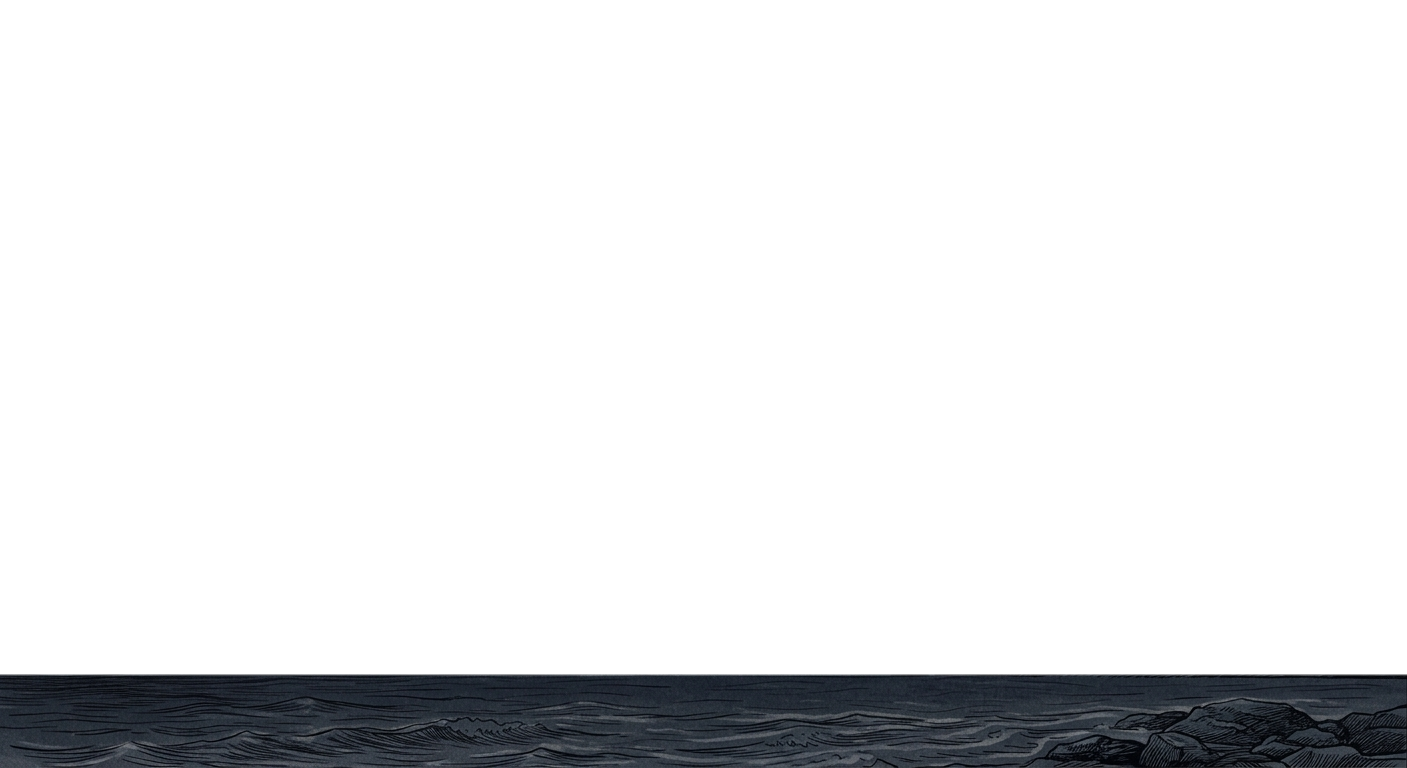
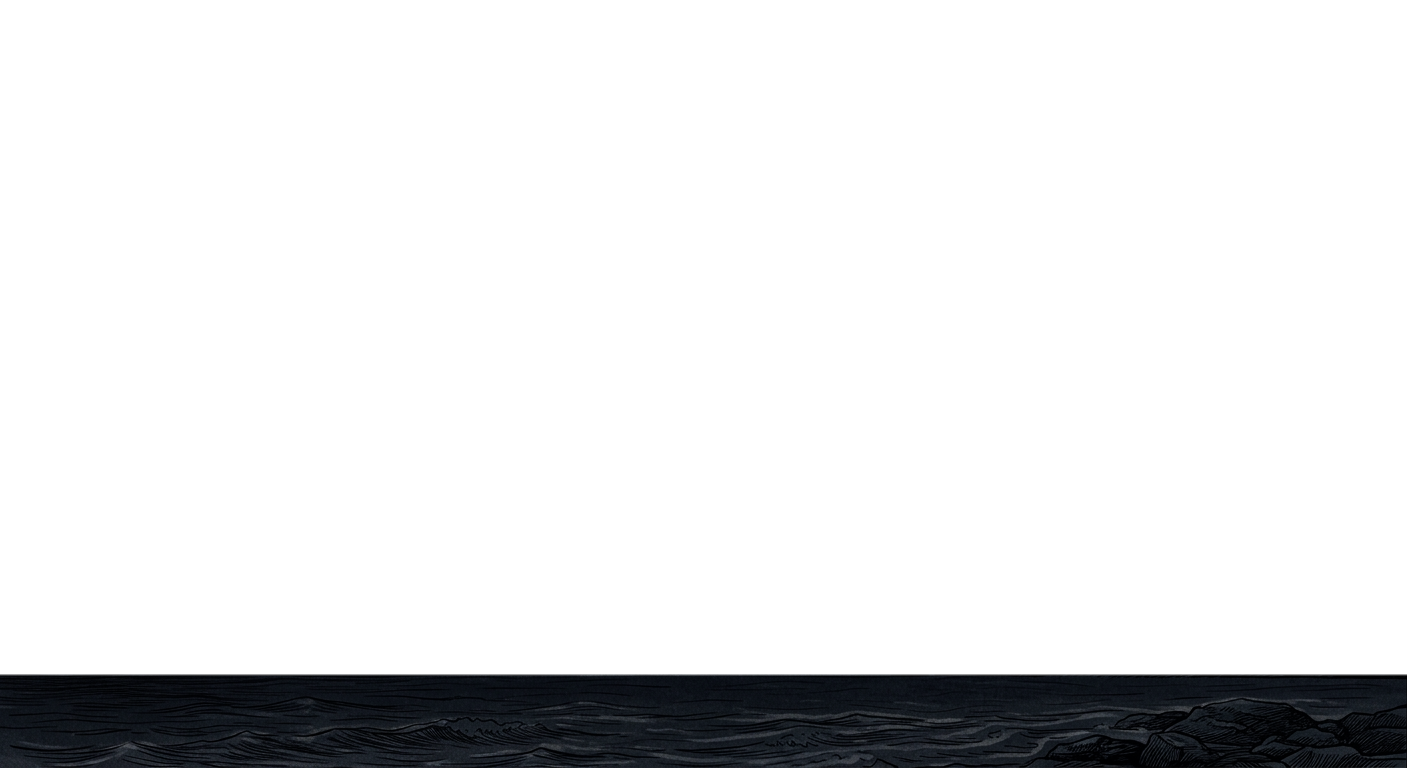
fix(ui): eliminate box boundaries by deepening background artwork and making canvas transparent

Changed region(s): [[0.0, 0.875, 1.0, 1.0]]

diff --git a/src/components/Glassframe.tsx b/src/components/Glassframe.tsx
@@ -1,40 +1,12 @@
 "use client";
 
-import { useState, useEffect } from "react";
-
 export default function GlassFrame({
     children,
 }: {
     children: React.ReactNode;
 }) {
-    // Default: false (clean, borderless, allowing text to slip behind horizon in foreground)
-    const [useFrostedBox, setUseFrostedBox] = useState(false);
-
-    useEffect(() => {
-        const saved = localStorage.getItem("glass_frame_box");
-        if (saved !== null) {
-            setUseFrostedBox(saved === "true");
-        }
-
-        const handleSync = () => {
-            const updated = localStorage.getItem("glass_frame_box");
-            if (updated !== null) {
-                setUseFrostedBox(updated === "true");
-            }
-        };
-
-        window.addEventListener("glass-box-toggle", handleSync);
-        return () => window.removeEventListener("glass-box-toggle", handleSync);
-    }, []);
-
     return (
-        <div
-            className={`page-canvas relative w-full max-w-6xl mx-auto my-8 px-6 sm:px-8 pt-6 sm:pt-8 pb-28 sm:pb-32 transition-all duration-300 z-10 ${
-                useFrostedBox
-                    ? "border border-current/10 rounded-sm bg-[var(--bg-color)]/70 backdrop-blur-md"
-                    : "border-none bg-transparent backdrop-blur-none"
-            }`}
-        >
+        <div className="page-canvas relative w-full max-w-6xl mx-auto my-8 px-6 sm:px-8 pt-6 sm:pt-8 pb-28 sm:pb-32 transition-all duration-300 z-10 border-none bg-transparent backdrop-blur-none">
             {children}
         </div>
     );

diff --git a/src/app/globals.css b/src/app/globals.css
@@ -116,11 +116,6 @@
         --heading-color: #f8fafc;
     }
 
-    .dark .page-canvas {
-        /* Soft atmospheric backing that gently lifts text contrast over background art */
-        background: radial-gradient(ellipse at 50% 25%, rgba(11, 15, 23, 0.55) 0%, rgba(11, 15, 23, 0.25) 75%, transparent 100%);
-    }
-
     /* Section Headings (Recent Essays, Projects, Thoughts) */
     .section-heading {
         color: var(--heading-color, #2c221e);

diff --git a/GEMINI.md b/GEMINI.md
@@ -38,8 +38,8 @@
     - Dark mode: `--text-muted: #cbd5e1` (Refined Platinum Silver / Slate-300, 12.5:1 contrast ratio against cosmic `#0b0f17`).
     - *Verdict:* Provides distinct subordination to primary text while remaining sharply readable.
 - **Dark Mode Primary & Heading Contrast Standard:**
-  - Primary text and headings strictly locked to **Crisp Starlight Silver** (`--text-color: #f8fafc`, `--heading-color: #f8fafc` / Slate-50), delivering an ultra-crisp 17.5:1 contrast ratio against `#0b0f17`. Replaced antique ivory with luminous cool silver.
-  - **Atmospheric Reading Scrim**: `.dark .page-canvas` uses a subtle borderless radial gradient (`rgba(11, 15, 23, 0.55)` fading to transparent) behind the central column, preventing background stardust from competing with fine serif typography while preserving the organic ocean waterline emergence.
+  - Primary text and headings strictly locked to **Crisp Starlight Silver** (`--text-color: #f8fafc`, `--heading-color: #f8fafc` / Slate-50), delivering an ultra-crisp 18.8:1 contrast ratio against cosmic obsidian `#0b0f17`. Replaced antique ivory with luminous cool silver.
+  - **Zero Box Boundaries / Borderless Canvas**: `.page-canvas` is 100% transparent (`border-none bg-transparent backdrop-blur-none`) with zero radial or linear scrims, avoiding any rectangular or gradient box edges. Contrast is provided globally via the deepened cosmic night sky artwork (`real_write_mode.png` and `horizon_foreground_dark.png` with calibrated gamma 1.45 tone curve) while constellations and the lighthouse glow sharply.
   - Light mode uses Warm Espresso Bronze (`#2C221E`).
   - Palettes in Studio Controller:
     - *Charcoal / Platinum (Silver - Default)*: `#595147` in light, `#E2E8F0` in dark.
